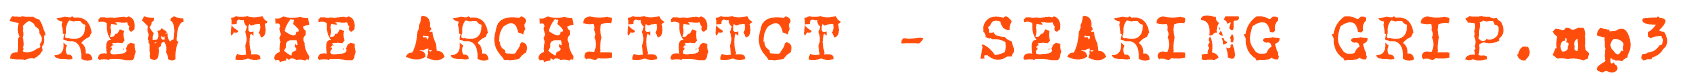
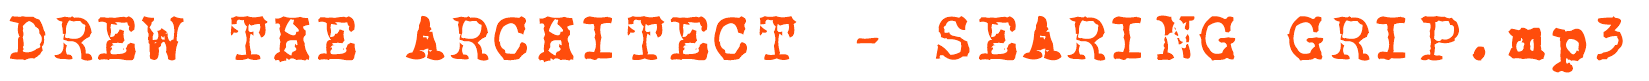
drew typo fix

Changed region(s): [[0.0, 0.1975, 0.9897, 0.8889]]

diff --git a/script.js b/script.js
@@ -524,7 +524,7 @@ const tracks = [
   "audio/02 - HEMATIDROSIS - Onward To Babylon.mp3",
   "audio/03 - DC - TODA2000.mp3",
   "audio/04 - CROWN VIC - BENEATH THE ROT FEAT. MORBID ANGEL.mp3",
-  "audio/05 - DREW THE ARCHITETCT - SEARING GRIP.mp3",
+  "audio/05 - DREW THE ARCHITECT - SEARING GRIP.mp3",
   "audio/06 - 10SCOOPS - CAREER VICTIM.mp3",
   "audio/07 - Hewhocorrupts - Suge Knight is at My BBQ.mp3",
   "audio/08 - SMILEY - Game Goofy.mp3",
